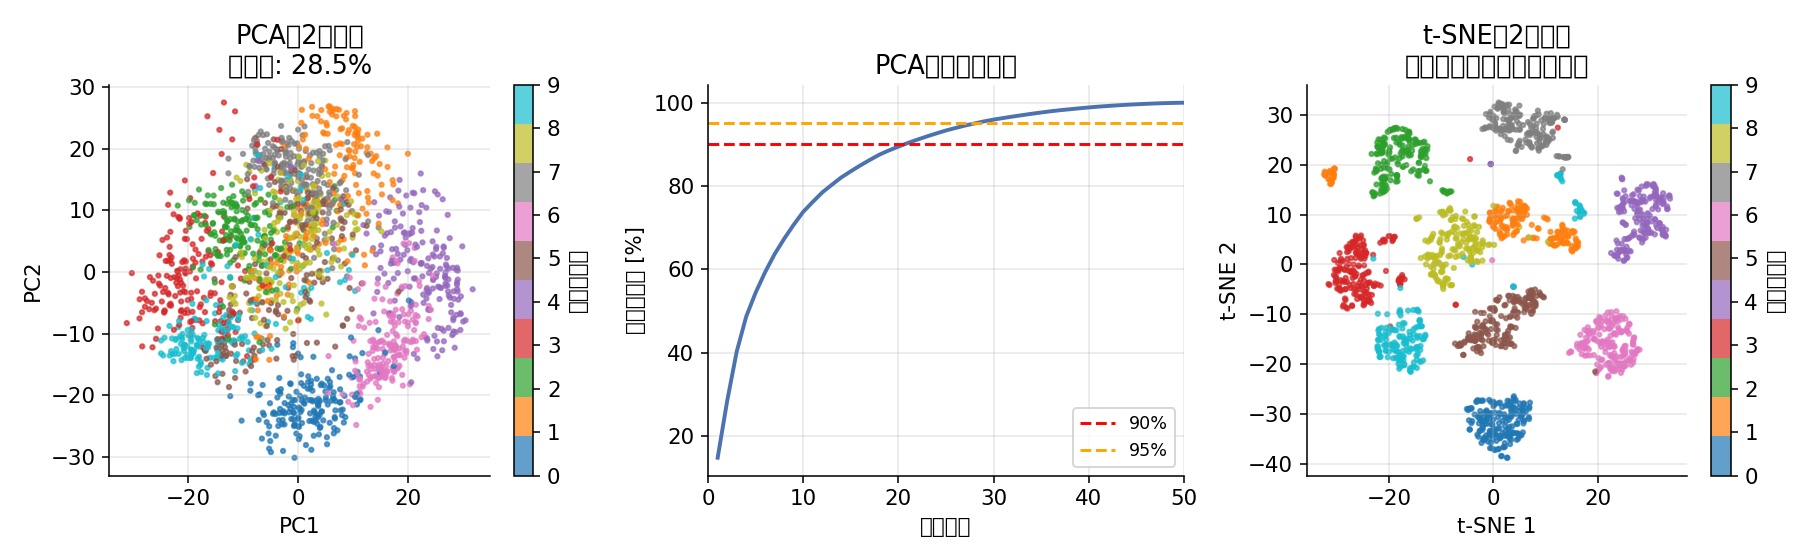
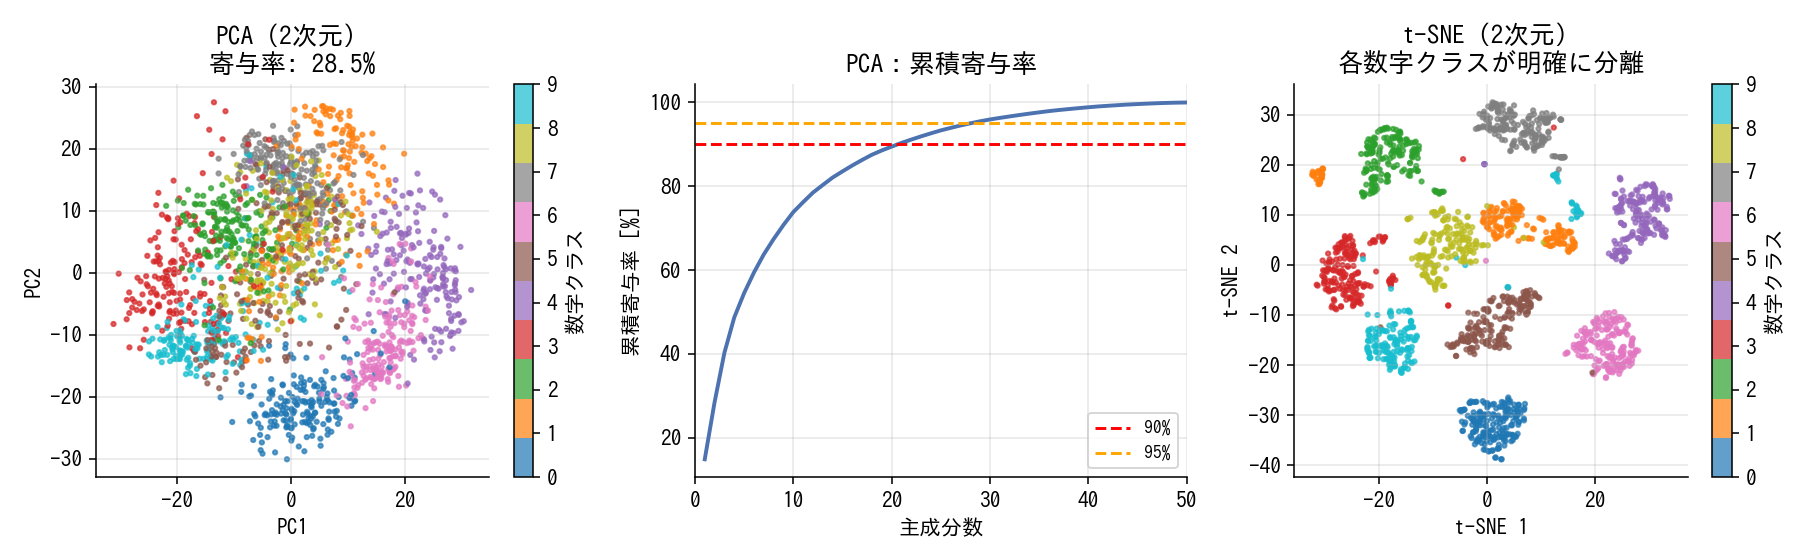
Fix Japanese font rendering in chart images (IPAGothic)
Added font.family=IPAGothic and axes.unicode_minus=False to rcParams
to prevent garbled Japanese text in axis labels and titles.

https://claude.ai/code/session_019UQEaWjsEw9C52wSvw1xwx

diff --git a/backend/gen_charts.py b/backend/gen_charts.py
@@ -16,6 +16,8 @@ os.makedirs(OUT, exist_ok=True)
 plt.rcParams.update({
     "figure.dpi": 140,
     "font.size": 11,
+    "font.family": "IPAGothic",
+    "axes.unicode_minus": False,
     "axes.spines.top": False,
     "axes.spines.right": False,
     "axes.grid": True,
